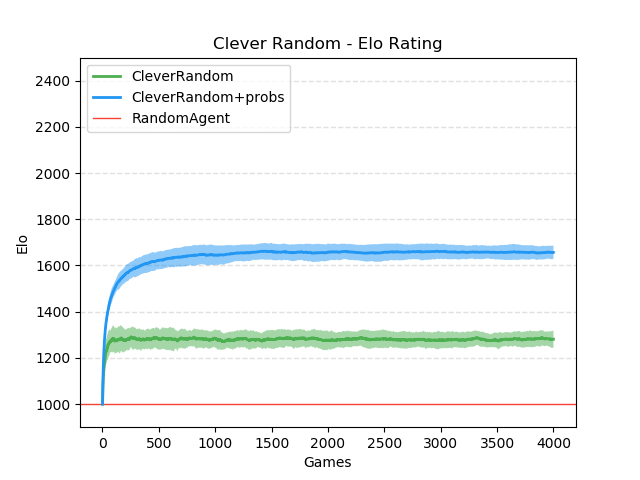
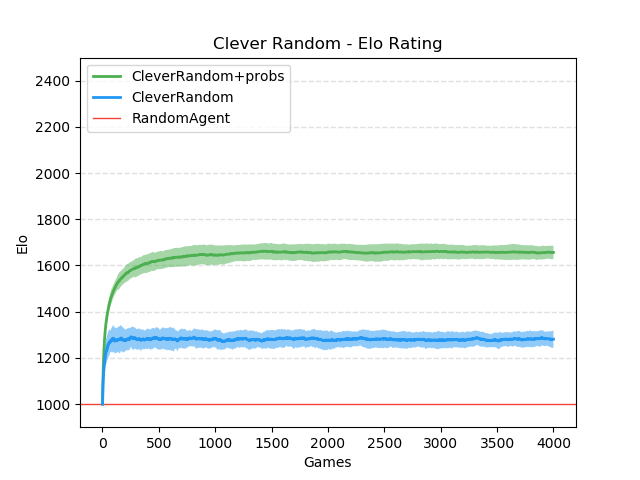
Plot fix

Changed region(s): [[0.1562, 0.5, 0.875, 0.7812], [0.375, 0.125, 0.4375, 0.2188]]

diff --git a/plotgenerators/cleverrandomelo.py b/plotgenerators/cleverrandomelo.py
@@ -3,7 +3,7 @@ import numpy as np
 
 
 with EloPlot(title=f'Clever Random - Elo Rating', saves=[f'GoodPlots/CleverRandom.png'], CR=False, CRP=False) as plt:
-    for EloOverTime, name, agent, color in Data([".\\outputs\\CleverRandomElo\\csv", ".\\outputs\\CleverRandomEloCalcProb-4000\\csv"], colors=['#4CAF50', '#2196F3'], elo=False):
+    for EloOverTime, name, agent, color in Data([".\\outputs\\CleverRandomEloCalcProb-4000\\csv", ".\\outputs\\CleverRandomElo\\csv"], colors=['#4CAF50', '#2196F3'], elo=False):
         name = 'CleverRandom+probs' if name == 'CleverRandomEloCalcProb-4000' else 'CleverRandom'
         theData = EloOverTime[0, 1000:, :]
 
